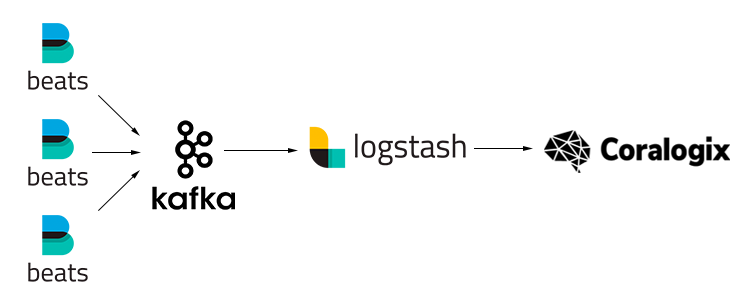
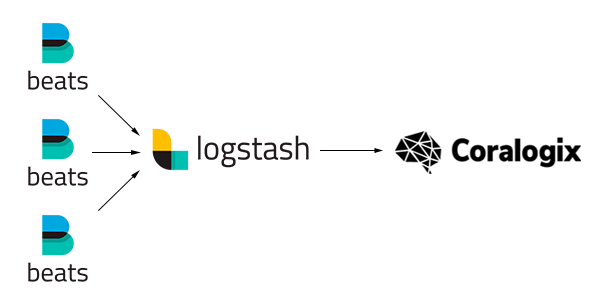
Simple Logstash configuration added

diff --git a/examples/logstash/README.rst b/examples/logstash/README.rst
@@ -84,10 +84,49 @@ Configuration for the ``Logstash`` pipeline is located at ``/etc/logstash/conf.d
 
 Configuration examples can be found `here <https://github.com/coralogix/integrations-docs/tree/master/examples/logstash/configs>`_.
 
+Single Logstash
+~~~~~~~~~~~~~~~
+
+.. image:: images/1.png
+   :alt: Logstash
+   :align: center
+
+**/etc/logstash/conf.d/logstash.conf:**
+
+.. code-block:: ruby
+
+    input {
+      file {
+        type => "access"
+        path => "/var/log/nginx/access.log"
+      }
+      file {
+        type => "error"
+        path => "/var/log/nginx/error.log"
+        codec => multiline {
+          pattern => "^\d{4}\/\d{2}\/\d{2}"
+          negate => true
+          what => previous
+        }
+      }
+    }
+
+    output {
+      coralogix {
+        config_params => {
+          "PRIVATE_KEY" => "${PRIVATE_KEY}"
+          "APP_NAME" => "nginx"
+          "SUB_SYSTEM" => "$type"
+        }
+        log_key_name => "message"
+        is_json => false
+      }
+    }
+
 Filebeat & Logstash
 ~~~~~~~~~~~~~~~~~~~
 
-.. image:: images/1.png
+.. image:: images/2.png
    :alt: Filebeat & Logstash
    :align: center
 
@@ -142,7 +181,7 @@ Filebeat & Logstash
 Filebeat & Kafka & Logstash
 ~~~~~~~~~~~~~~~~~~~~~~~~~~~
 
-.. image:: images/2.png
+.. image:: images/3.png
    :alt: Filebeat & Kafka & Logstash
    :align: center
 
@@ -200,7 +239,7 @@ Filebeat & Kafka & Logstash
 Filebeat & Redis & Logstash
 ~~~~~~~~~~~~~~~~~~~~~~~~~~~
 
-.. image:: images/3.png
+.. image:: images/4.png
    :alt: Filebeat & Redis & Logstash
    :align: center
 
